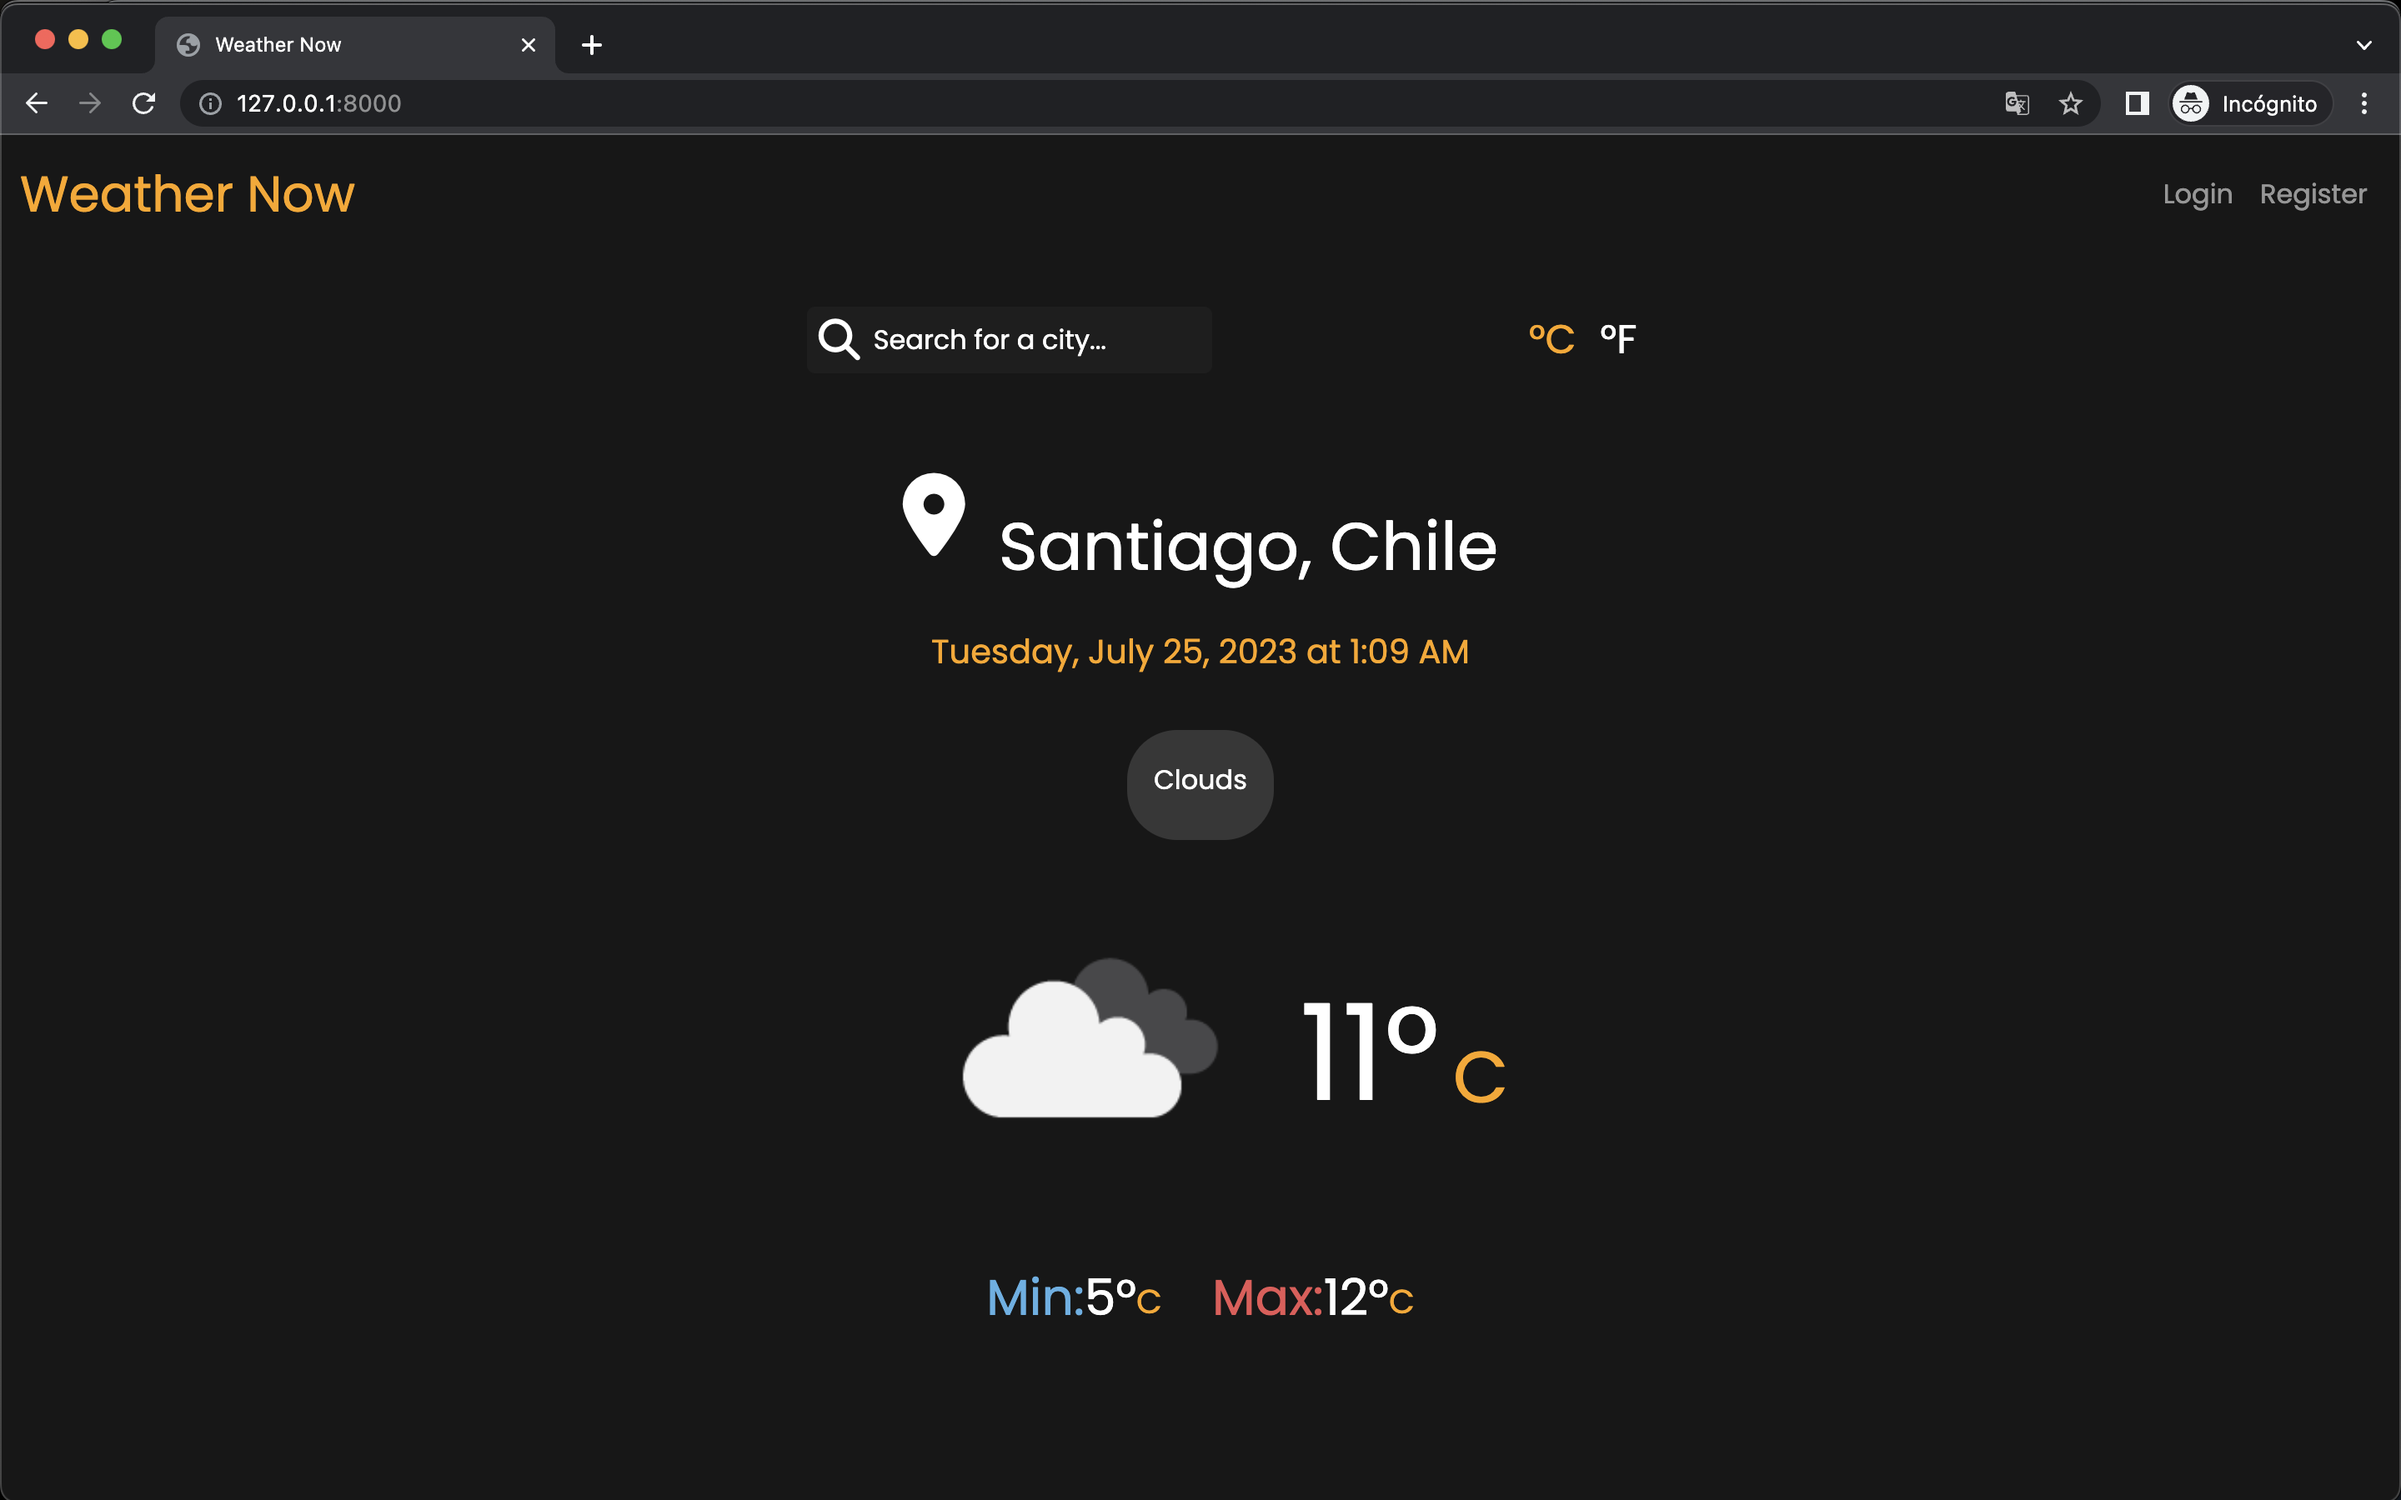
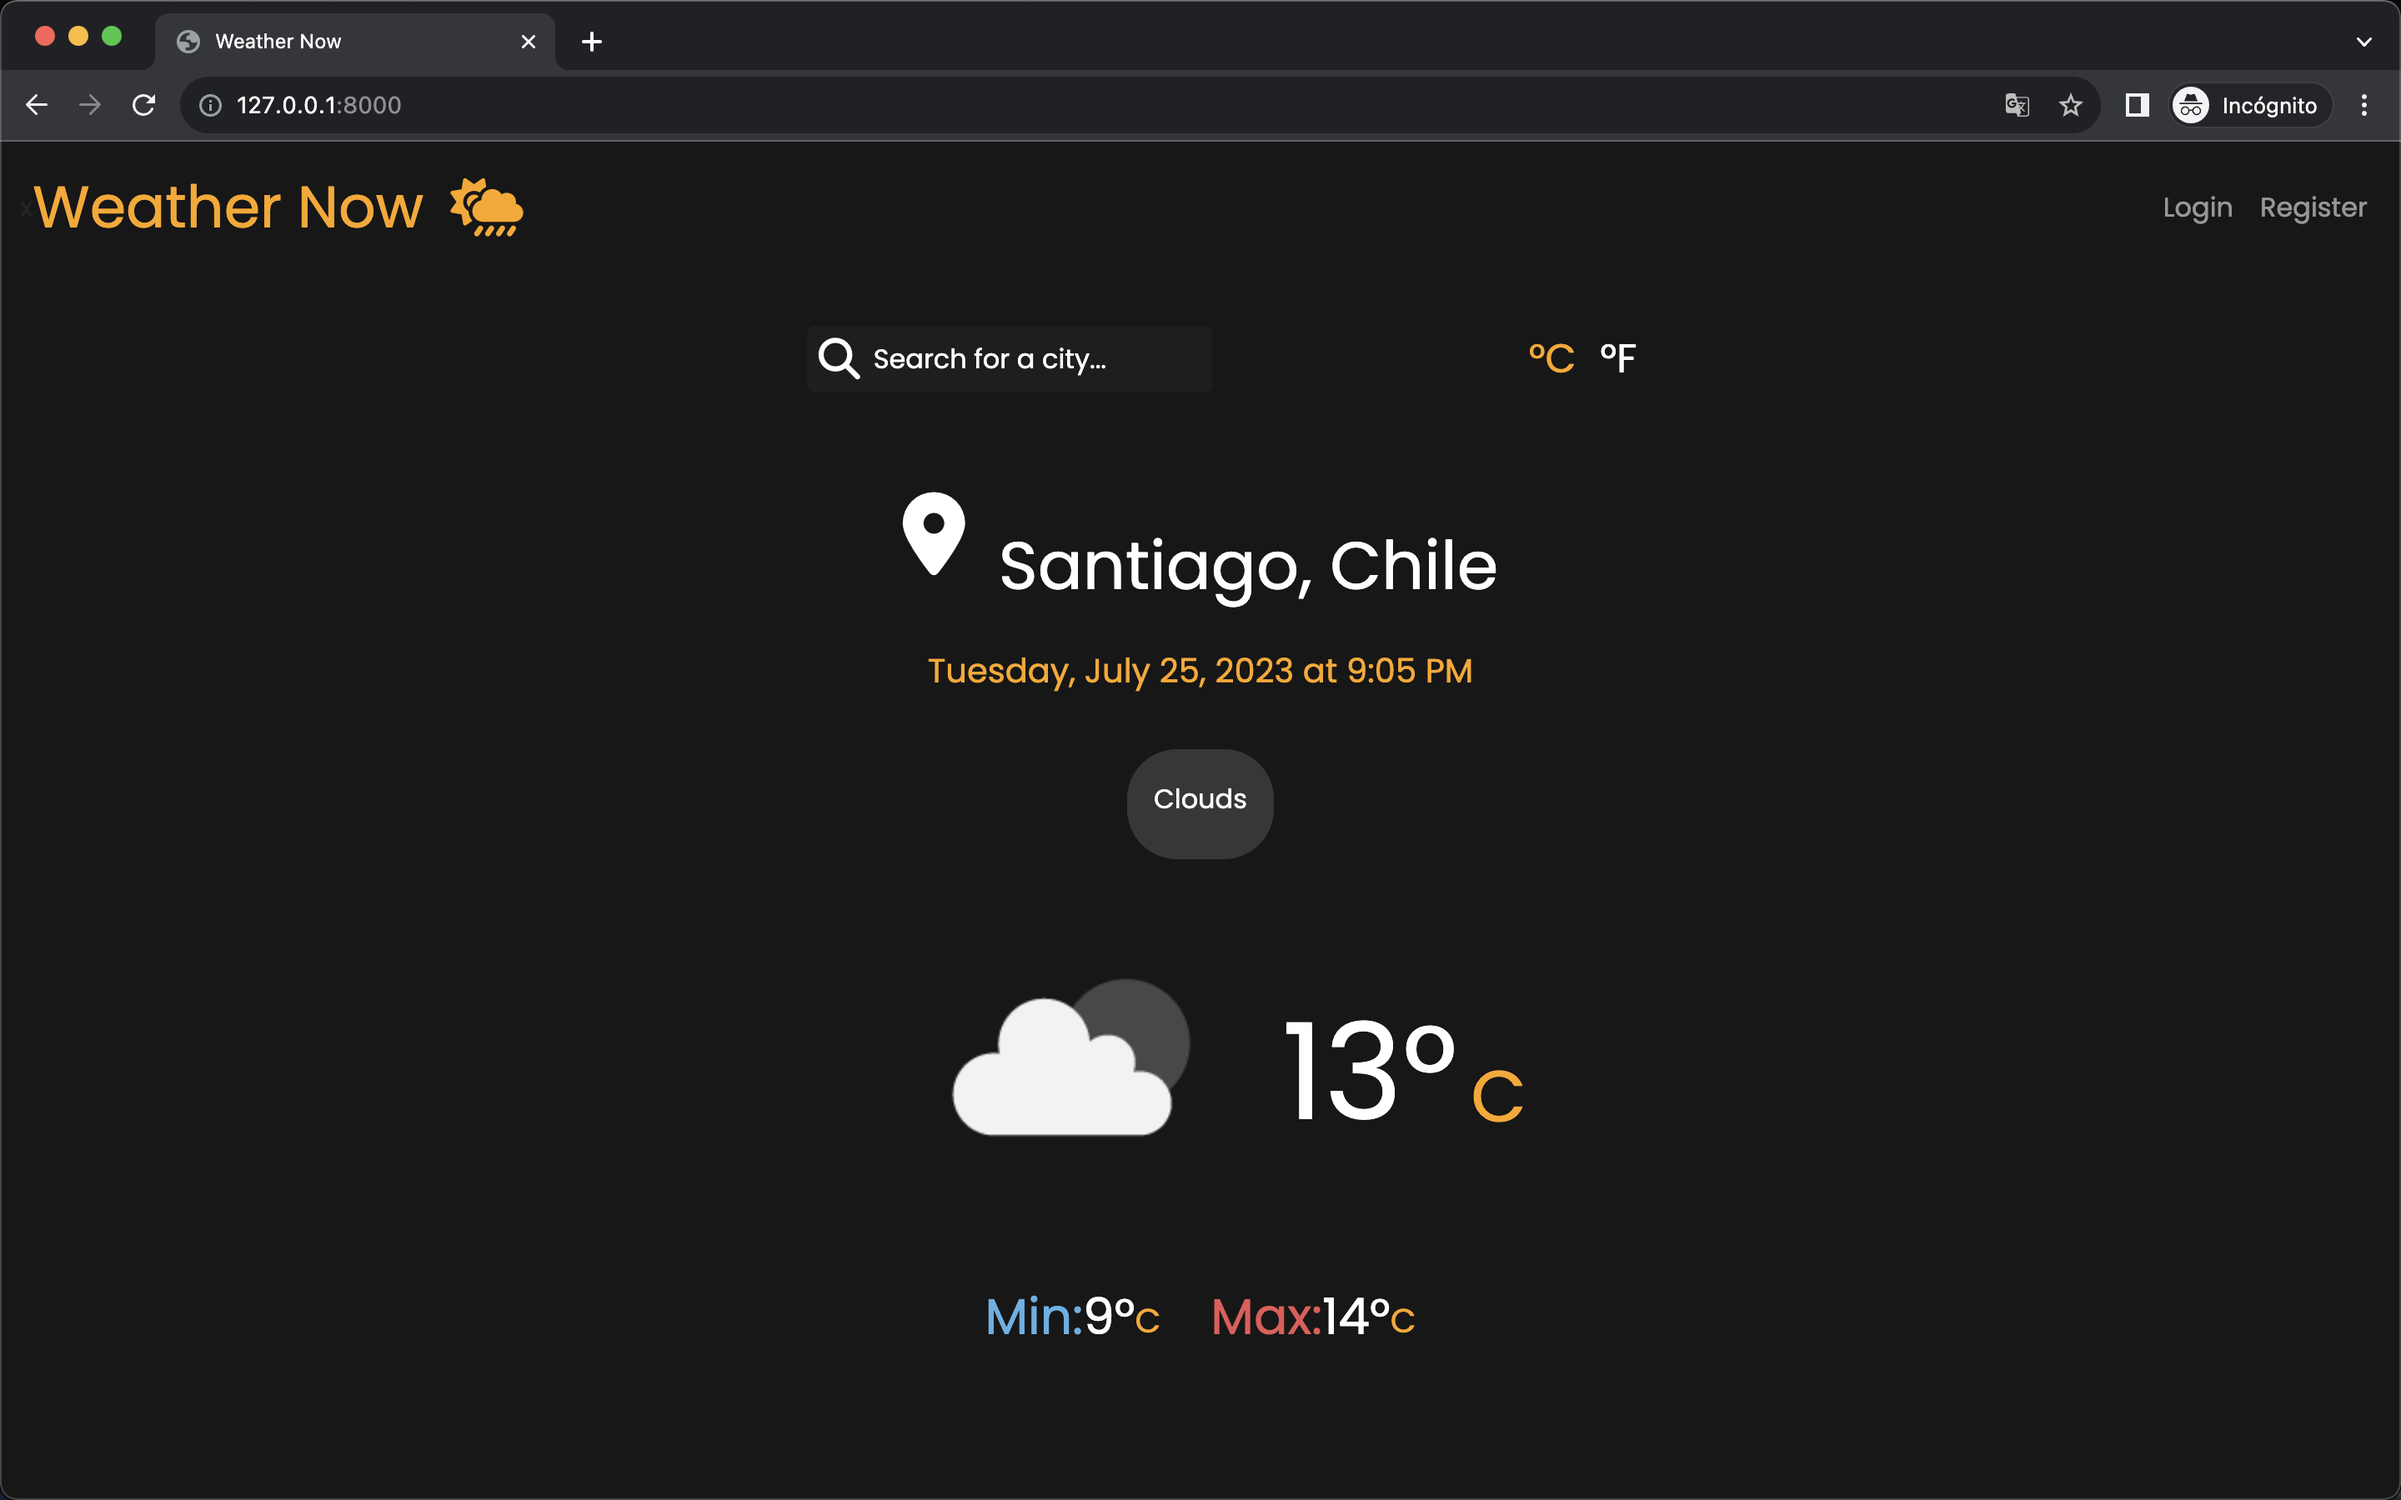
Beta version

diff --git a/weather/templates/weather/register.html b/weather/templates/weather/register.html
@@ -2,29 +2,34 @@
 
 {% block body %}
 
-    <h2>Register</h2>
-
-    {% if message %}
-        <div>{{ message }}</div>
-    {% endif %}
-
-    <form action="{% url 'register' %}" method="post">
-        {% csrf_token %}
-        <div class="form-group">
-            <input class="form-control" autofocus type="text" name="username" placeholder="Username">
+<div class="sections" id="login">
+    <div class="row text-center justify-content-center">
+        <div class="col-2 margin-ml">
+            <h2 class="brand">Register</h2>
+            {% if message %}
+            <div>{{ message }}</div>
+            {% endif %}
+            <form action="{% url 'register' %}" method="post">
+            {% csrf_token %}
+                <div class="form-group">
+                    <input class="form-control margin-sm input" autofocus type="text" name="username" placeholder="Username">
+                </div>
+                <div class="form-group">
+                    <input class="form-control margin-sm input" type="email" name="email" placeholder="Email Address">
+                </div>
+                <div class="form-group">
+                    <input class="form-control margin-sm input" type="password" name="password" placeholder="Password">
+                </div>
+                <div class="form-group">
+                    <input class="form-control margin-sm input" type="password" name="confirmation" placeholder="Confirm Password">
+                </div>
+                <input class="margin-sm btn btn-warning" type="submit" value="Register">
+            </form>
+            <div class="margin-sm">
+                Already have an account? <a style="color: orange; text-decoration: none;" href="{% url 'login' %}">Log In here.</a>
+            </div>
         </div>
-        <div class="form-group">
-            <input class="form-control" type="email" name="email" placeholder="Email Address">
-        </div>
-        <div class="form-group">
-            <input class="form-control" type="password" name="password" placeholder="Password">
-        </div>
-        <div class="form-group">
-            <input class="form-control" type="password" name="confirmation" placeholder="Confirm Password">
-        </div>
-        <input class="btn btn-primary" type="submit" value="Register">
-    </form>
-
-    Already have an account? <a href="">Log In here.</a>
+    </div>
+</div>
 
 {% endblock %}

diff --git a/weather/templates/weather/layout.html b/weather/templates/weather/layout.html
@@ -9,8 +9,9 @@
 </head>
 <body>
     <nav class="navbar navbar-expand-lg navbar-dark">
-        <div class="container-fluid ">
-            <a class="navbar-brand" style="color:orange; font-size: 30px" href="{% url 'index' %}">Weather Now</a>
+        <div class="container-fluid ">x
+            <a class="navbar-brand brand" href="{% url 'index' %}">Weather Now</a>
+            <i class="brand fa-solid fa-cloud-sun-rain"></i>
             {% if user.is_authenticated %}
             <h5 style="color: #fff; margin-left:10% ">Hi, @{{ user.username }}</h5>
             {% endif %}
@@ -33,11 +34,11 @@
     {% block body %}
     {% endblock %}
 
-    <footer class="footer" >
+    <footer class="footer" id="footer">
         <div class="container text-center">
             <div class="row">
                 <div class="col margin-sm">
-                    <a class="navbar-brand" style="color:orange; font-size: 30px;" href="{% url 'index' %}">Weather Now</a>
+                    <a class="navbar-brand brand" href="{% url 'index' %}">Weather Now</a>
                     <div class="">
                     {% if user.is_authenticated %}
                     <a class="nav-item nav-link" href="#">My Cities</a>
@@ -59,6 +60,8 @@
 
     <script src="https://code.jquery.com/jquery-3.3.1.slim.min.js" integrity="sha384-q8i/X+965DzO0rT7abK41JStQIAqVgRVzpbzo5smXKp4YfRvH+8abtTE1Pi6jizo" crossorigin="anonymous"></script>
     <script src="https://cdn.jsdelivr.net/npm/popper.js@1.14.7/dist/umd/popper.min.js" integrity="sha384-UO2eT0CpHqdSJQ6hJty5KVphtPhzWj9WO1clHTMGa3JDZwrnQq4sF86dIHNDz0W1" crossorigin="anonymous"></script>
-    <script src="https://cdn.jsdelivr.net/npm/bootstrap@4.3.1/dist/js/bootstrap.min.js" integrity="sha384-JjSmVgyd0p3pXB1rRibZUAYoIIy6OrQ6VrjIEaFf/nJGzIxFDsf4x0xIM+B07jRM" crossorigin="anonymous"></script>   
+    <script src="https://cdn.jsdelivr.net/npm/bootstrap@4.3.1/dist/js/bootstrap.min.js" integrity="sha384-JjSmVgyd0p3pXB1rRibZUAYoIIy6OrQ6VrjIEaFf/nJGzIxFDsf4x0xIM+B07jRM" crossorigin="anonymous"></script>
+    <script src="https://kit.fontawesome.com/a692e1c39f.js" crossorigin="anonymous"></script>
+    <script src="{% static 'weather/script.js' %}"></script>   
 </body>
 </html>

diff --git a/weather/templates/weather/login.html b/weather/templates/weather/login.html
@@ -1,24 +1,30 @@
 {% extends "weather/layout.html" %}
+{% load static %}
 
 {% block body %}
 
-    <h2>Login</h2>
-
-    {% if message %}
-        <div>{{ message }}</div>
-    {% endif %}
-
-    <form action="{% url 'login' %}" method="post">
-        {% csrf_token %}
-        <div class="form-group">
-            <input autofocus class="form-control" type="text" name="username" placeholder="Username">
+    <div class="sections" id="login">
+        <div class="row text-center justify-content-center">
+            <div class="col-2 margin-ml">
+                <h2 class="brand">Login</h2>
+                {% if message %}
+                    <div>{{ message }}</div>
+                {% endif %}
+                <form action="{% url 'login' %}" method="post">
+                    {% csrf_token %}
+                    <div class="form-group margin-sm">
+                        <input autofocus class="form-control input" type="text" name="username" placeholder="Username">
+                    </div>
+                    <div class="form-group margin-sm">
+                        <input class="form-control input" type="password" name="password" placeholder="Password">
+                    </div>
+                    <input class="btn btn-warning margin-sm" type="submit" value="Login">
+                </form>
+                <div class="margin-sm">
+                    Don't have an account? <a style="color: orange; text-decoration: none;" href="{% url 'register' %}">Register here.</a>
+                </div>
+            </div>
         </div>
-        <div class="form-group">
-            <input class="form-control" type="password" name="password" placeholder="Password">
-        </div>
-        <input class="btn btn-primary" type="submit" value="Login">
-    </form>
-
-    Don't have an account? <a href="{% url 'register' %}">Register here.</a>
+    </div>
 
 {% endblock %}

diff --git a/weather/static/weather/styles.css b/weather/static/weather/styles.css
@@ -1,5 +1,10 @@
 @import url('https://fonts.googleapis.com/css2?family=Poppins&display=swap');
 
+html, body {
+    margin: 0;
+    height: 100%;
+}
+
 * {
     margin: 0;
     padding: 0;
@@ -7,15 +12,21 @@
     font-family: 'Poppins', sans-serif;
 }
 
-#index {
+.sections {
+    min-height: 67%;
     background: #171717;
     color: #fff;
-    padding-bottom: 80px;
+    padding-bottom: 90px;
 }
 
 .navbar {
     text-decoration: none;
     background: #171717;
+}
+
+.brand {
+    color: orange;
+    font-size: 35px;
 }
 
 .units-color {
@@ -51,6 +62,26 @@ input {
 
 input::placeholder {
     color: #fff;
+}
+
+.input {
+    border: none;
+    background: #1e1e1e;
+    outline: none;
+    color: #fff;
+    border-radius: 5px;
+}
+
+.input::placeholder {
+    color: #fff;
+}
+
+.input:focus {
+    border: none;
+    background: #1e1e1e;
+    outline: none;
+    color: #fff;
+    border-radius: 5px;
 }
 
 .weather__search {
@@ -127,13 +158,17 @@ input::placeholder {
 }
 
 .footer {
-    color: #2f2f2f;
+    color: #535151;
     height: 200px;
     background: #191919;
 }
 
+
 .margin-sm {
     margin-top: 30px;
+}
+.margin-ml {
+    margin-top: 80px;
 }
 
 @media(max-width: 936px){
@@ -147,12 +182,5 @@ input::placeholder {
 
     .weather__units {
         margin-top: 1rem;
-    }
-}
-
-
-@media(max-width: 400px){
-    .weather__info {
-        grid-template-columns: none;
     }
 }

diff --git a/weather/templates/weather/index.html b/weather/templates/weather/index.html
@@ -4,7 +4,7 @@
 {% block body %}
     
 <body>
-    <section id="index">
+    <section class="sections" id="index">
         <div class="container-fluid">
             <div class="row text-center weather__header justify-content-center">
                 <div class="col-4">
@@ -96,11 +96,6 @@
 
         </div>
     </section>
-    <script src="https://kit.fontawesome.com/a692e1c39f.js" crossorigin="anonymous"></script>
 </body>
-
-
-
-<script src="{% static 'weather/script.js' %}"></script>
 
 {% endblock %}
